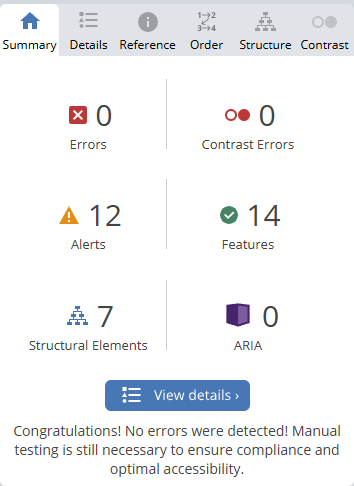
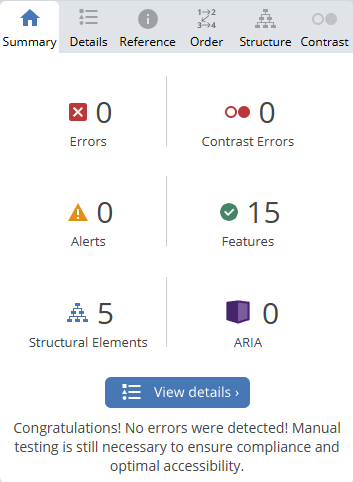
Added updated images to readme

diff --git a/README.md b/README.md
@@ -78,9 +78,12 @@
 
 - Provides a quick way to start fresh, ensuring a seamless experience when players want to retry or improve their attempt.
 
-#### Victory Modal
+#### Modal
 
-![Modal](./assets/appFeaturesImgs/modal.png)
+![Modal](./assets/appFeaturesImgs/modalLose.png)
+![Modal](./assets/appFeaturesImgs/modalTwothree.png)
+![Modal](./assets/appFeaturesImgs/modalFourFive.png)
+![Modal](./assets/appFeaturesImgs/modalWin.png)
 
 - A pop-up overlay that displays a completion message when the game ends, providing feedback to the player.
 
@@ -198,8 +201,6 @@ Testing was focused to ensure the following criteria were met:
 #### Index Wave Results
 ![index wave](./assets/testing/waveTest.png)
 
-- 12 Alerts are related to the '< p > ? < /p >' not being headings. As it didn't seem necessary to update them, I left them as is. 
-
 #### 404 wave result
 
 ![404 Wave test](./assets/testing/404Wave.png)
@@ -278,33 +279,35 @@ All tests yielded no errors.
 ### Test Case index
 
 #### Interactables
+
 - Play/Pause audio button
-  - Music Play Pause state corresponds to button - [TC11](#TC11) []
-  - plays correct track when pausing and playing at different points - [TC12](#TC12) []
-  - Audio does not play when opting to have audio paused for entire game - [TC13](#TC13) & [TC14](#TC14) -[]
+  - Music Play Pause state corresponds to button - TC11
+  - plays correct track when pausing and playing at different points - TC12
+  - Audio does not play when opting to have audio paused for entire game - TC13 & TC14
 
 - Volume Slider
-  - Correctly lowers || elevates volume - [TC15](#TC15) []
+  - Correctly lowers || elevates volume - TC15
 
 - Card Flips
-  - Card Matches - [TC1](#TC1) []
-  - Non matching Cards flip back - [TC1](#TC1) []
-  - Card Matches stay flipped - [TC2](#TC2) []
-  - Can only flip two Cards - [TC3](#TC3) []
-  - Cards cannot be flipped when game ends by matching all pairs - [TC4](#TC4) []
-  - Timer starts on card flip - [TC5](#TC5) []
-  - Timer stop counting when all cards matched & time hits 00:00 - [TC6](#TC6) & [TC7](#TC7) []
-  - Cards cannot be flipped when game ends by runnnig out of time - [TC8](#TC8) []
+  - Card Matches - TC1
+  - Non matching Cards flip back - TC1
+  - Card Matches stay flipped - TC2 
+  - Can only flip two Cards - TC3
+  - Cards cannot be flipped when game ends by matching all pairs - TC4
+  - Timer starts on card flip - TC5
+  - Timer stop counting when all cards matched & time hits 00:00 - TC6 & TC7
+  - Cards cannot be flipped when game ends by runnnig out of time - TC8
   
 - Reset Button
-  - Resets game arrays and reinstates values - [TC9](#TC9) []
-  - Cues correct music on reset - [TC9](#TC9) []
-  - Shuffles cards - [TC9](#TC9) []
+  - Resets game arrays and reinstates values - TC9
+  - Cues correct music on reset - TC9
+  - Shuffles cards - TC9
 
 - Modal
-  - Modal pops up when game won - [TC16](#TC16) []
-  - Modal Close button - [TC18](#TC18) []
-  - Modal displays valid player score - [TC17](#TC17)[]
+  - Modal pops up when game won - TC16
+  - Modal Close button - TC18
+  - Modal displays valid player score - TC17
+  - Modal displays correct content depending on matchedPair amount at game over - TC19, TC20, TC21 & TC22
 
 ### Manual Testing Document
 
